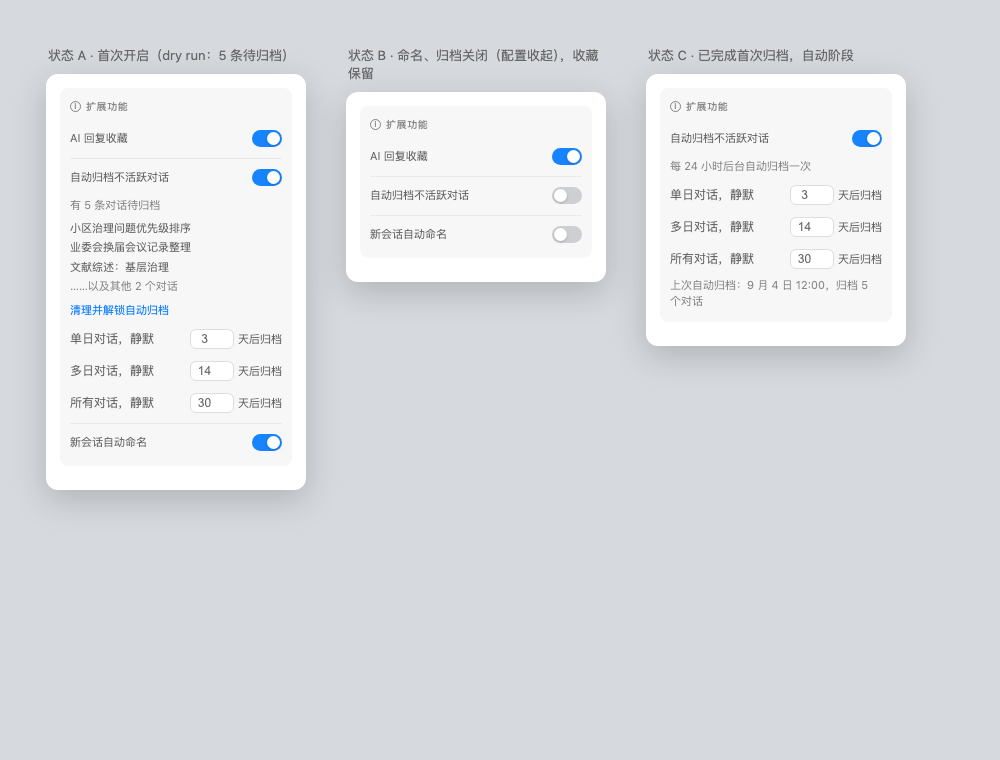
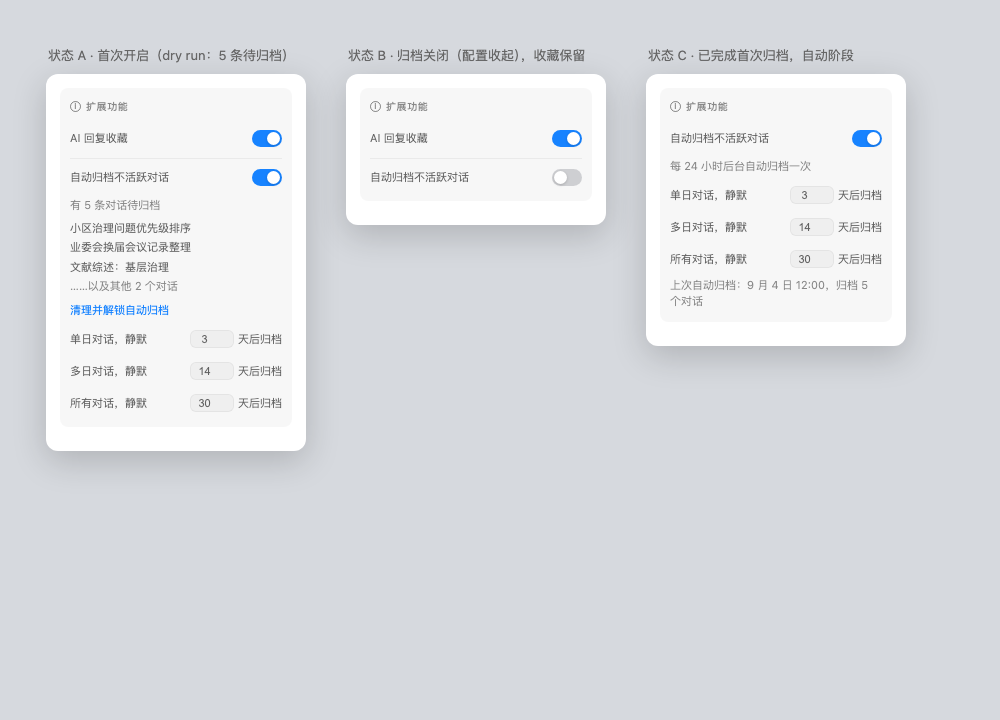
移除新会话自动命名（官方实验 auto_session_title 已覆盖）+ 若干加固
- popup「扩展功能」卡片收敛为收藏 + 自动归档两个子块；ⓘ 弹层附
  官方实验开启教程（KIMI_CODE_EXPERIMENTAL_FLAG=1 + /experiments 确认）
- websocket-session 断开 onTurnEnded 接线；rename-content.js 标注整体退役，
  代码注释保留；popup/rename.js 删除
- 阈值输入 input 即时防抖保存（改完立刻关弹窗不丢值）
- 首跑面板列出具体会话名（最多 8 条 + 省略行）；读取失败与零候选
  区分显示（失败给重试出口）
- CLI 状态卡片：瞬态失败自动重试一次 + console 诊断日志
- sender-guard 修复：选项页以标签页打开时 sender 带 tab，曾被误判为
  内容脚本全部拒绝；改按自身扩展 ID 的 URL 前缀识别（补回归测试）
- V2 会话列表响应按实测解包 data.items；归档⇄恢复往返 + 消息内容
  哈希比对压测通过（内容零改动）

测试 232 通过。

diff --git a/docs/extensions-card-mockup.html b/docs/extensions-card-mockup.html
@@ -1,14 +1,14 @@
 <!DOCTYPE html>
-<!-- 扩展功能卡片 视觉稿（v3.4.0 popup 改版预览）
-     复用真实 popup.css，仅新增样式集中在下方 <style>——实现时照搬进 popup.css。
-     左：三功能全开（自动整理=手动确认，有候选）；右：命名/整理关闭时的收起态。 -->
+<!-- 扩展功能卡片 视觉稿（v3.4.0 popup 改版预览 · 最终态：收藏 + 自动归档两个子块）
+     复用真实 popup.css，仅新增样式集中在下方 <style>。
+     自动命名已移除（官方实验 auto_session_title 承担），开启教程在卡片 ⓘ 弹层。 -->
 <html lang="zh">
 <head>
 <meta charset="UTF-8">
 <title>扩展功能卡片 · 视觉稿</title>
 <link rel="stylesheet" href="../popup.css">
 <style>
-  /* ---- 以下为新增样式（实现时并入 popup.css） ---- */
+  /* ---- 以下为新增样式（已并入 popup.css） ---- */
   .mock-stage { display: flex; gap: 40px; padding: 32px; align-items: flex-start; }
   .mock-col { width: 260px; }
   .mock-label { font: 13px system-ui; color: #666; margin: 0 0 10px 2px; }
@@ -20,54 +20,50 @@
     border-radius: 12px; box-shadow: 0 10px 34px rgba(0,0,0,.18);
   }
 
-  /* 新卡片容器：与 #roam-pet-section 同款 */
+  /* 卡片容器：与 #roam-pet-section 同款 */
   #extensions-section {
     padding: 10px; border-radius: 8px; background: var(--fill-1); margin-bottom: 10px;
   }
 
-  /* 子块头：功能名 + 开关（比 section-head 紧凑，卡片内复用） */
   .ext-block { padding: 2px 0; }
   .ext-block-head { display: flex; align-items: center; justify-content: space-between; min-height: 24px; }
   .ext-block-head .usage-title { font-size: 11px; font-weight: 400; letter-spacing: normal; text-transform: none; color: inherit; }
-  .ext-block-sub { font-size: 11px; color: var(--text-tertiary, #999); margin: 2px 0 0; line-height: 1.5; }
-  .ext-block-head + .ext-block-sub { margin-top: 2px; }
+  .ext-block:not(.on) .tidy-config { display: none; }
 
-  /* 自动整理配置行 */
   .tidy-row { display: flex; align-items: center; justify-content: space-between; gap: 8px; margin-top: 8px; min-height: 24px; }
-  .tidy-row label { font-size: 12px; color: var(--text-secondary, #555); white-space: nowrap; }
+  .tidy-row label { font-size: 11px; color: var(--text-secondary, #555); white-space: nowrap; }
   .tidy-row input[type="number"] {
-    width: 44px; padding: 2px 4px; font-size: 12px; text-align: center;
-    border: 1px solid var(--border, #ddd); border-radius: 6px; background: var(--bg-input, #fff);
+    width: 44px; padding: 2px 4px; font-size: 11px; text-align: center;
+    border: 1px solid var(--fill-2, #ddd); border-radius: 6px; background: var(--fill-1, #f5f5f5); color: inherit;
   }
   .tidy-row .status-actions { display: inline-flex; align-items: center; gap: 4px; font-size: 11px; color: var(--text-secondary, #555); }
+  button.action.tidy-unlock-btn { color: var(--accent, #0a6cff); }
+  button.action.tidy-unlock-btn:hover { color: var(--accent-hover, #0a6cff); }
   .tidy-first-item {
     font-size: 11px; color: var(--text-secondary, #555);
     padding: 1px 0; overflow: hidden; text-overflow: ellipsis; white-space: nowrap;
   }
   .tidy-first-more { color: var(--text-tertiary, #999); }
-  button.action.tidy-unlock-btn { color: var(--accent, #0a6cff); }
-  button.action.tidy-unlock-btn:hover { color: var(--accent-hover, #0a6cff); }
   .tidy-hint { font-size: 11px; color: var(--text-tertiary, #999); margin-top: 6px; line-height: 1.5; }
-  select:disabled { opacity: .5; }
 </style>
 </head>
-<body class="is-popup-page">
+<body>
 <div class="mock-stage">
 
-  <!-- 状态 A：三功能全开 -->
+  <!-- 状态 A：首次开启（dry run） -->
   <div class="mock-col">
     <p class="mock-label">状态 A · 首次开启（dry run：5 条待归档）</p>
     <div class="is-popup">
       <div id="extensions-section" class="feature-card on">
         <div class="section-head">
           <div class="feature-title">
-            <span class="info-icon"><span class="info-tip">扩展功能的统一开关区：AI 回复收藏、自动归档不活跃对话与新会话自动命名。各自独立开关，关闭后对应功能与配置一并收起。</span></span>
+            <span class="info-icon"><span class="info-tip">AI 回复收藏：点击 AI 回复下方的星标即可收藏，在侧栏随时回看；内容只保存在本地。<br><br>自动归档不活跃对话：按静默天数把不活跃的对话自动移入「已完成」，保持「进行中」列表干净。<br><br>小教程 · 会话标题自动生成：该能力由 Kimi CLI 官方实验「AI session titles」提供。开启方法：在启动 kimi 的环境里设置环境变量 KIMI_CODE_EXPERIMENTAL_FLAG=1（如写入 ~/.zshrc 后重启终端），再用 /experiments 确认 auto_session_title 为 enabled；手动生成可右键会话选「生成标题」。</span></span>
             <span class="usage-title">扩展功能</span>
           </div>
         </div>
         <div class="feature-body">
 
-          <div class="ext-block">
+          <div class="ext-block on">
             <div class="ext-block-head">
               <span class="usage-title">AI 回复收藏</span>
               <label class="feature-toggle"><input type="checkbox" checked class="kswitch-input"><span class="kswitch"></span></label>
@@ -76,7 +72,7 @@
 
           <div class="feature-divider"></div>
 
-          <div class="ext-block">
+          <div class="ext-block on">
             <div class="ext-block-head">
               <span class="usage-title">自动归档不活跃对话</span>
               <label class="feature-toggle"><input type="checkbox" checked class="kswitch-input"><span class="kswitch"></span></label>
@@ -103,34 +99,25 @@
             </div>
           </div>
 
-          <div class="feature-divider"></div>
-
-          <div class="ext-block">
-            <div class="ext-block-head">
-              <span class="usage-title">新会话自动命名</span>
-              <label class="feature-toggle"><input type="checkbox" checked class="kswitch-input"><span class="kswitch"></span></label>
-            </div>
-          </div>
-
         </div>
       </div>
     </div>
   </div>
 
-  <!-- 状态 B：命名/整理关闭，收藏保留 -->
+  <!-- 状态 B：归档关闭，收藏保留 -->
   <div class="mock-col">
-    <p class="mock-label">状态 B · 命名、归档关闭（配置收起），收藏保留</p>
+    <p class="mock-label">状态 B · 归档关闭（配置收起），收藏保留</p>
     <div class="is-popup">
       <div id="extensions-section" class="feature-card on">
         <div class="section-head">
           <div class="feature-title">
-            <span class="info-icon"><span class="info-tip">扩展功能的统一开关区：AI 回复收藏、自动归档不活跃对话与新会话自动命名。各自独立开关，关闭后对应功能与配置一并收起。</span></span>
+            <span class="info-icon"><span class="info-tip">AI 回复收藏：点击 AI 回复下方的星标即可收藏，在侧栏随时回看；内容只保存在本地。<br><br>自动归档不活跃对话：按静默天数把不活跃的对话自动移入「已完成」，保持「进行中」列表干净。</span></span>
             <span class="usage-title">扩展功能</span>
           </div>
         </div>
         <div class="feature-body">
 
-          <div class="ext-block">
+          <div class="ext-block on">
             <div class="ext-block-head">
               <span class="usage-title">AI 回复收藏</span>
               <label class="feature-toggle"><input type="checkbox" checked class="kswitch-input"><span class="kswitch"></span></label>
@@ -146,33 +133,24 @@
             </div>
           </div>
 
-          <div class="feature-divider"></div>
-
-          <div class="ext-block">
-            <div class="ext-block-head">
-              <span class="usage-title">新会话自动命名</span>
-              <label class="feature-toggle"><input type="checkbox" class="kswitch-input"><span class="kswitch"></span></label>
-            </div>
-          </div>
-
         </div>
       </div>
     </div>
   </div>
 
-  <!-- 状态 C：自动模式已解锁 -->
+  <!-- 状态 C：已解锁，自动阶段 -->
   <div class="mock-col">
     <p class="mock-label">状态 C · 已完成首次归档，自动阶段</p>
     <div class="is-popup">
       <div id="extensions-section" class="feature-card on">
         <div class="section-head">
           <div class="feature-title">
-            <span class="info-icon"><span class="info-tip">扩展功能集合。</span></span>
+            <span class="info-icon"><span class="info-tip">AI 回复收藏：点击 AI 回复下方的星标即可收藏，在侧栏随时回看；内容只保存在本地。<br><br>自动归档不活跃对话：按静默天数把不活跃的对话自动移入「已完成」，保持「进行中」列表干净。</span></span>
             <span class="usage-title">扩展功能</span>
           </div>
         </div>
         <div class="feature-body">
-          <div class="ext-block">
+          <div class="ext-block on">
             <div class="ext-block-head">
               <span class="usage-title">自动归档不活跃对话</span>
               <label class="feature-toggle"><input type="checkbox" checked class="kswitch-input"><span class="kswitch"></span></label>

diff --git a/src/i18n.js b/src/i18n.js
@@ -284,10 +284,9 @@ const EN = {
   '取消失败': 'Failed to disable',
   /* ---------- 扩展功能卡片（收藏开关 / 自动归档 / 自动命名） ---------- */
   '扩展功能': 'Extensions',
-  'AI 回复收藏：点击 AI 回复下方的星标即可收藏，在侧栏随时回看；内容只保存在本地。<br><br>自动归档不活跃对话：按静默天数把不活跃的对话自动移入「已完成」，保持「进行中」列表干净。<br><br>新会话自动命名：新会话到第 3 轮对话后，自动调用系统「生成标题」；手动改过的名字不会被覆盖。': 'AI reply bookmarks: click the star below an AI reply to bookmark it and revisit from the sidebar; content stays on this device.<br><br>Auto-archive inactive chats: moves inactive sessions to "Done" after their idle days threshold, keeping the "Open" list clean.<br><br>Auto-rename new sessions: after the 3rd turn of a new session, the built-in "Generate title" is called automatically; manually renamed titles are never overwritten.',
+  'AI 回复收藏：点击 AI 回复下方的星标即可收藏，在侧栏随时回看；内容只保存在本地。<br><br>自动归档不活跃对话：按静默天数把不活跃的对话自动移入「已完成」，保持「进行中」列表干净。<br><br>小教程 · 会话标题自动生成：该能力由 Kimi CLI 官方实验「AI session titles」提供。开启方法：在启动 kimi 的环境里设置环境变量 KIMI_CODE_EXPERIMENTAL_FLAG=1（如写入 ~/.zshrc 后重启终端），再用 /experiments 确认 auto_session_title 为 enabled；手动生成可右键会话选「生成标题」。': 'AI reply bookmarks: click the star below an AI reply to bookmark it and revisit from the sidebar; content stays on this device.<br><br>Auto-archive inactive chats: moves inactive sessions to "Done" after their idle days threshold, keeping the "Open" list clean.<br><br>Mini guide · auto session titles: provided by the official Kimi CLI experiment "AI session titles". To enable: set the environment variable KIMI_CODE_EXPERIMENTAL_FLAG=1 where you launch kimi (e.g. in ~/.zshrc, then restart the terminal) and confirm auto_session_title is enabled via /experiments; you can always right-click a session and choose "Generate title".',
   'AI 回复收藏': 'AI reply bookmarks',
   '自动归档不活跃对话': 'Auto-archive inactive chats',
-  '新会话自动命名': 'Auto-rename new sessions',
   '单日对话，静默': 'Single-day, idle for',
   '多日对话，静默': 'Multi-day, idle for',
   '所有对话，静默': 'Any session, idle for',

diff --git a/popup.html b/popup.html
@@ -124,7 +124,7 @@
   <div id="extensions-section" class="feature-card on">
     <div class="section-head">
       <div class="feature-title">
-        <span class="info-icon"><span class="info-tip">AI 回复收藏：点击 AI 回复下方的星标即可收藏，在侧栏随时回看；内容只保存在本地。<br><br>自动归档不活跃对话：按静默天数把不活跃的对话自动移入「已完成」，保持「进行中」列表干净。<br><br>新会话自动命名：新会话到第 3 轮对话后，自动调用系统「生成标题」；手动改过的名字不会被覆盖。</span></span>
+        <span class="info-icon"><span class="info-tip">AI 回复收藏：点击 AI 回复下方的星标即可收藏，在侧栏随时回看；内容只保存在本地。<br><br>自动归档不活跃对话：按静默天数把不活跃的对话自动移入「已完成」，保持「进行中」列表干净。<br><br>小教程 · 会话标题自动生成：该能力由 Kimi CLI 官方实验「AI session titles」提供。开启方法：在启动 kimi 的环境里设置环境变量 KIMI_CODE_EXPERIMENTAL_FLAG=1（如写入 ~/.zshrc 后重启终端），再用 /experiments 确认 auto_session_title 为 enabled；手动生成可右键会话选「生成标题」。</span></span>
         <span class="usage-title">扩展功能</span>
       </div>
     </div>
@@ -162,14 +162,6 @@
         </div>
       </div>
 
-      <div class="feature-divider"></div>
-
-      <div class="ext-block on" id="ext-rename-block">
-        <div class="ext-block-head">
-          <span class="usage-title">新会话自动命名</span>
-          <label class="feature-toggle"><input type="checkbox" id="rename-auto-toggle" class="kswitch-input"><span class="kswitch"></span></label>
-        </div>
-      </div>
 
     </div>
   </div>

diff --git a/src/session-rename/rename-content.js b/src/session-rename/rename-content.js
@@ -1,11 +1,10 @@
-/* 会话智能命名：内容脚本管线（本机/LAN/Remote Control 页面）。
- * 职责：读 localStorage 凭据、守卫（手动标题保护/去重/并发锁）、触发与记录。
- * v3.4.0 起执行端改为系统「生成标题」：POST /api/v1/sessions/{id}/title/generate
- * （服务端生成并写回，与右键菜单同一通路，需登录 Kimi Code 托管账号）。
- * 扩展自己的模型调用管线（取样→组 prompt→rename.model）整体注释保留，
+/*
+ * 会话智能命名：内容脚本管线。
+ * ⚠ v3.4.0 起整体退役：官方实验 auto_session_title（KIMI_CODE_EXPERIMENTAL_FLAG）
+ * 已在第一轮自动生成标题，扩展端重复生成会造成标题抖动；websocket-session 的
+ * onTurnEnded 接线与本模块一并停用。代码保留备查，
  * 恢复方法见 docs/DESIGN-extensions-card.md §3.2。
- * 触发入口：content.js 在 turn.ended 后 import { onTurnEnded } 直接调用，
- * 第 3 轮对话结束后命名（首轮内容太少不足以概括）。 */
+ */
 'use strict';
 
 import * as shared from './rename-shared.js';

diff --git a/tests/session-rename.test.js b/tests/session-rename.test.js
@@ -407,10 +407,9 @@ test('接线：manifest 与 build.sh 登记新文件，命名 v2 走系统「生
   assert.match(renameBgSource, /recordRenameUsage\(result\.usage\)/);
   assert.match(renameBgSource, /const RENAME_USAGE_STORAGE_KEY = 'sessionRenameUsage'/);
 
-  // turn.ended 钩子直接 import 后注入 websocket-session.js，不再走 globalThis 兜底
-  // 渲染层拆分后由 websocket-session 直接 import onTurnEnded，不再经 content.js 注入
-  assert.match(wsSessionSource, /import \{ onTurnEnded \} from '\.\.\/session-rename\/rename-content\.js';/);
-  assert.match(wsSessionSource, /onTurnEnded\(sessionId\)/);
+  // v3.4.0 末：自动命名整体移除（官方实验 auto_session_title 已覆盖），
+  // websocket-session 不再接线 onTurnEnded
+  assert.doesNotMatch(wsSessionSource, /onTurnEnded/);
 });
 
 test('自动命名重试：busy/locked 等暂时性跳过放回重试集合，不消耗尝试次数', () => {

diff --git a/src/content/websocket-session.js b/src/content/websocket-session.js
@@ -9,7 +9,6 @@
 
 import { normalizeUsage } from '../metrics.js';
 import { setAgentStatus, renderAll } from './render.js';
-import { onTurnEnded } from '../session-rename/rename-content.js';
 import { petBeginTurn, petCompleteTurn } from './pet-panel.js';
 import { toNumber, rcApiPrefix, isRemoteControl } from './utils.js';
 import { t } from '../i18n.js';
@@ -434,8 +433,6 @@ export function createWebSocketSession(deps) {
           // 折线图：本轮最后一个 step 样本加常驻大节点，区分轮内调用与整轮结束
           markLastSampleTurnEnd();
           petCompleteTurn();
-          // 会话智能命名（session-rename/rename-content.js）：开关关闭时内部直接返回
-          onTurnEnded(sessionId);
         }
         renderAll();
         scheduleCliUsageRefresh();

diff --git a/src/popup/tidy.js b/src/popup/tidy.js
@@ -260,7 +260,17 @@ tidyToggle.addEventListener('change', async () => {
   }
 });
 
+let thresholdSaveTimer = null;
+
 for (const key of Object.keys(thresholdInputs)) {
+  // input 即时防抖保存：改完数字立刻关弹窗也不会丢（change 只在失焦/回车触发）
+  thresholdInputs[key].addEventListener('input', () => {
+    const clamped = clampThreshold(thresholdInputs[key].value);
+    if (clamped == null) return;
+    tidySettings[key] = clamped;
+    clearTimeout(thresholdSaveTimer);
+    thresholdSaveTimer = setTimeout(saveTidySettings, 400);
+  });
   thresholdInputs[key].addEventListener('change', () => {
     const clamped = clampThreshold(thresholdInputs[key].value);
     if (clamped == null) {

diff --git a/src/popup.js b/src/popup.js
@@ -8,7 +8,6 @@ import { initHostsSection } from './popup/hosts.js';
 import { setCliPathHelp, refreshCliStatus } from './popup/usage.js';
 import { refreshStatus } from './popup/accounts.js';
 import { buildExternalSection, refreshExternalStatus } from './popup/external.js';
-import { loadRenameSettings } from './popup/rename.js';
 import { loadTidySettings, loadBookmarksFeature } from './popup/tidy.js';
 import './popup/pets.js';
 import './popup/share-card.js';
@@ -32,7 +31,6 @@ kick(
     kick(refreshCliStatus());
     buildExternalSection();
     kick(refreshExternalStatus());
-    kick(loadRenameSettings());
     kick(loadTidySettings());
     kick(loadBookmarksFeature());
   })()

diff --git a/README.en.md b/README.en.md
@@ -71,11 +71,11 @@ Moves inactive sessions to the sidebar's "Done" tab after their idle threshold, 
 
 Defaults to manual review: pick candidates in the popup's "To review" list and archive them in one click; one completed manual tidy unlocks "Move automatically" (runs every 24 hours, with a desktop notification). Archiving is fully reversible via Kimi Web's archived-sessions manager. Classification is computed locally from list metadata (created/updated times) only — conversation content is never read. Enabling the feature turns on Kimi Web's experimental "Multi-tab sidebar".
 
-### AI Auto-Rename for New Sessions
+### Session Title Auto-Generation (official capability)
 
-At turn 3 of a new session, Kimi Code Web's built-in "Generate title" (the same endpoint as the context menu) is called automatically and the title written back to the sidebar — no more first-message-verbatim titles. Manually renamed titles are never overwritten.
+Session titles are auto-generated by the official Kimi CLI experiment "AI session titles": the title is generated right after the first turn completes, and the right-click "Generate title" action is available anytime. Manually renamed titles are never overwritten.
 
-No model or API key setup — just sign in to your Kimi Code hosted account. Toggle it in the popup's "Extensions" card.
+To enable: set the environment variable `KIMI_CODE_EXPERIMENTAL_FLAG=1` where you launch kimi (e.g. in ~/.zshrc, then restart the terminal) and confirm auto_session_title is enabled via /experiments. The same guide lives in the ⓘ tooltip of the popup's "Extensions" card.
 
 ### Chinese & English
 
@@ -142,6 +142,6 @@ Each runtime surface has its own directory; shared modules sit at the `src/` roo
 - `src/cli-usage.js`: local CLI directory grant, incremental reads, per-day aggregation
 - `src/providers.js`: external provider endpoints and parsing
 - `src/pet/`: desktop pet — `pet-sprites.js` (atlas player + behaviors), `pet-install.js` (gallery command parsing & download), `pet-store.js` (IndexedDB asset store)
-- `src/session-rename/`: AI auto-rename for new sessions (v2 trigger policy and shared helpers; triggers the system "Generate title" endpoint, legacy model pipeline kept in comments)
+- `src/session-rename/`: retired auto-rename pipeline (kept for reference; the official auto_session_title experiment covers this — see "Session Title Auto-Generation")
 - `rive/`: mascot animation runtime and assets (bundled locally, no remote dependency)
 - `web-token.js`: retired web-side token relay (kept for reference, not registered in the manifest)

diff --git a/CHANGELOG.md b/CHANGELOG.md
@@ -13,9 +13,11 @@
 - 归档走会话 `:archive` 接口，可在 Kimi Web 的「已归档会话」管理页随时恢复
 - 判定为纯本地计算：只用列表接口的创建/更新时间，不读取对话内容
 
-### 变更：自动命名 v2
+### 移除：新会话自动命名
 
-命名执行改调 Kimi Code Web 系统的「生成标题」（与右键菜单同一通路，需登录托管账号），不再使用外部模型——popup 不再需要配置模型和 API Key。触发时机与保护不变：第 3 轮对话后触发、手动改过的名字永不覆盖、失败静默。旧的模型调用管线代码注释保留（见 `docs/DESIGN-extensions-card.md`）。
+会话标题的自动生成已由 Kimi CLI 官方实验「AI session titles」（auto_session_title）承担：实验开启时第一轮对话结束即自动生成，右键菜单的「生成标题」随时可用。扩展端重复生成会造成标题抖动，故整个移除（含 popup 子块与触发管线，代码注释保留）。
+
+开启官方实验：在启动 kimi 的环境设置环境变量 `KIMI_CODE_EXPERIMENTAL_FLAG=1`（如写入 ~/.zshrc 后重启终端），再用 /experiments 确认 auto_session_title 为 enabled；扩展功能卡片的 ⓘ 提示里也附有此教程。
 
 ### 变更：popup「扩展功能」卡片
 
